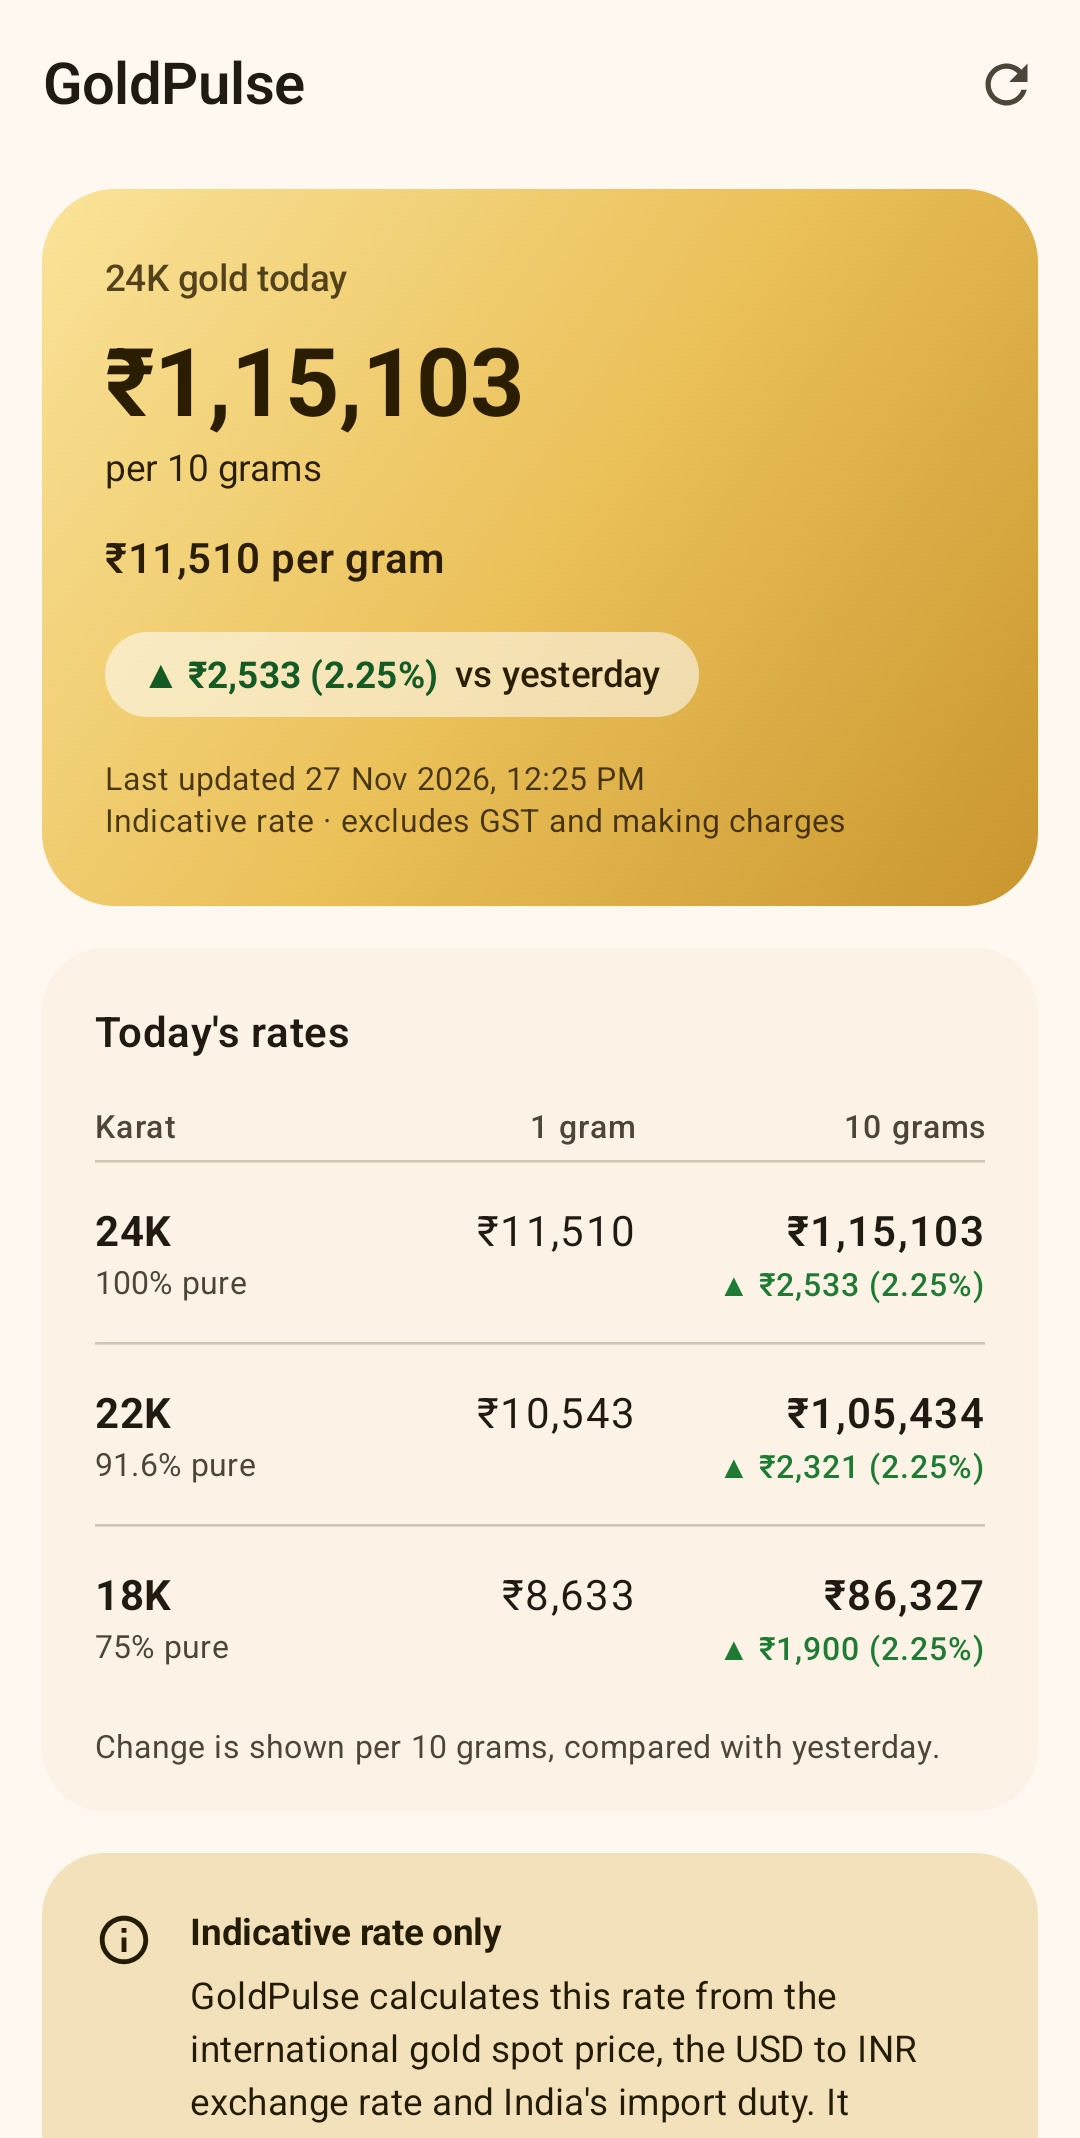
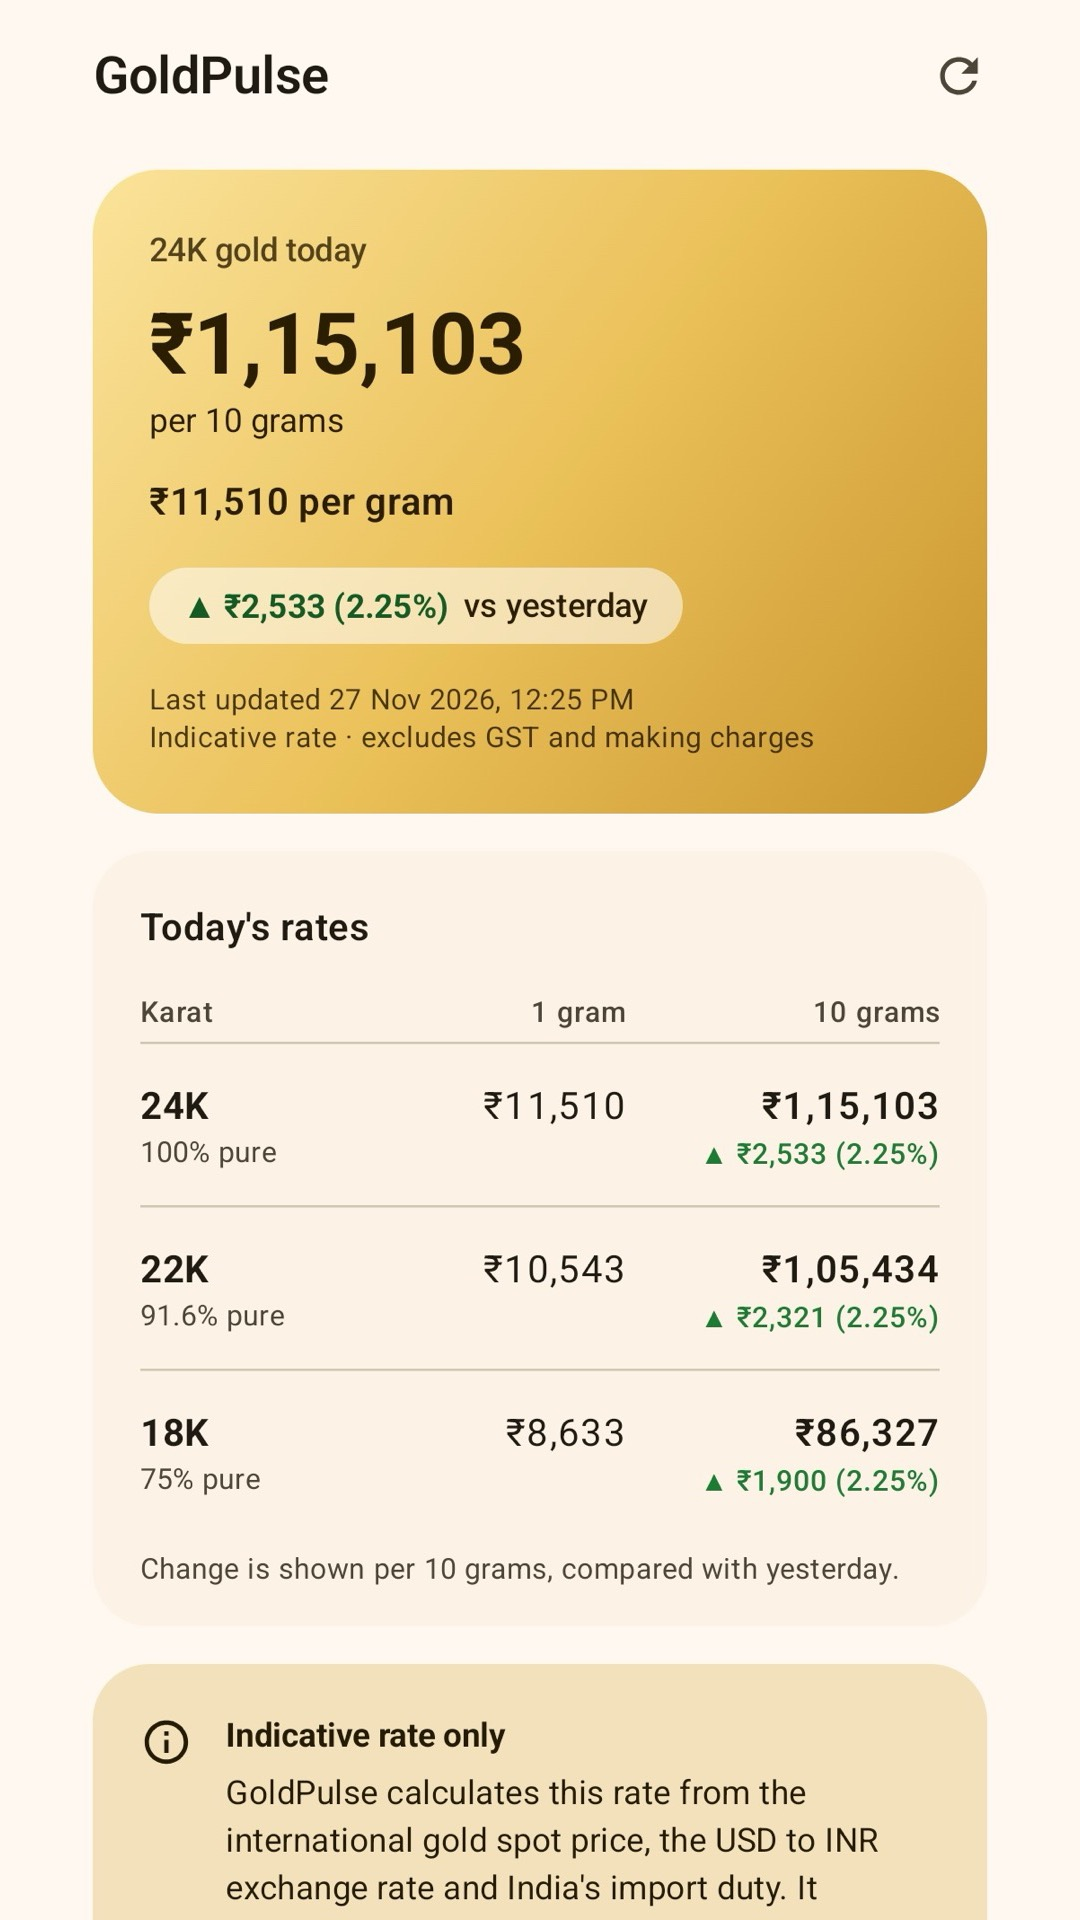
Match Play developer name and use 9:16 store screenshots
The privacy policy now names Deepkosh Solutions, the developer name on the
Play Console account. Phone screenshots are resized to 1080x1920 because
Play now requires a 9:16 ratio.

Claude-Session: https://claude.ai/code/session_01KRnQf8XiRNwS5wyG7PDajk

diff --git a/README.md b/README.md
@@ -155,14 +155,14 @@ Increase `versionCode` (and usually `versionName`) in [`app/build.gradle.kts`](a
    (for this repository: `https://aideepkosh.github.io/GoldPulse/privacy-policy.html`)
 4. Paste that URL into Play Console → **App content → Privacy policy**.
 
-The policy names the developer as DeepKosh with the contact address ai.deepkosh@gmail.com. Keep both the same as in the Play Console developer profile.
+The policy names the developer as Deepkosh Solutions (the Play Console developer name) with the contact address ai.deepkosh@gmail.com. Keep both the same as in the Play Console developer profile.
 
 ## Play Console notes
 
 - **Data safety:** "No data collected" and "No data shared". The app has no SDKs that collect data, and the only network calls download public prices (see the privacy policy).
 - **Ads:** No ads.
 - **Category:** Finance. **Target audience:** 18+ is the simplest choice for a finance app.
-- **Store listing assets:** `play-store/icon-512.png` (app icon), `play-store/feature-graphic-1024x500.jpg`, and three phone screenshots in `play-store/screenshots/` (1080 x 2138 JPEG; Play rejects screenshots longer than 2:1 or with transparency). Listing text is ready to paste in `play-store/listing.md`.
+- **Store listing assets:** `play-store/icon-512.png` (app icon), `play-store/feature-graphic-1024x500.jpg`, and three phone screenshots in `play-store/screenshots/` (1080 x 1920 JPEG; Play needs a 9:16 ratio and no transparency). Listing text is ready to paste in `play-store/listing.md`.
 - **App name:** "GoldPulse: Daily Gold Rate" in the listing. The launcher label is the shorter "GoldPulse".
 
 ## Library versions and compileSdk 36

diff --git a/privacy-policy.md b/privacy-policy.md
@@ -2,7 +2,7 @@
 
 **Effective date:** 27 November 2026
 
-This privacy policy explains how the Android app **GoldPulse: Daily Gold Rate** ("GoldPulse", "the app", package `com.deepkosh.goldpulse`), developed by **DeepKosh** ("we", "us"), handles information. In short: **GoldPulse does not collect, store on any server, share or sell any personal data.**
+This privacy policy explains how the Android app **GoldPulse: Daily Gold Rate** ("GoldPulse", "the app", package `com.deepkosh.goldpulse`), developed by **Deepkosh Solutions** ("we", "us"), handles information. In short: **GoldPulse does not collect, store on any server, share or sell any personal data.**
 
 ## Information we collect
 
@@ -54,4 +54,4 @@ If this policy changes, the updated version will be posted at this address with 
 
 ## Contact
 
-Questions about this policy: DeepKosh, [ai.deepkosh@gmail.com](mailto:ai.deepkosh@gmail.com)
+Questions about this policy: Deepkosh Solutions, [ai.deepkosh@gmail.com](mailto:ai.deepkosh@gmail.com)
